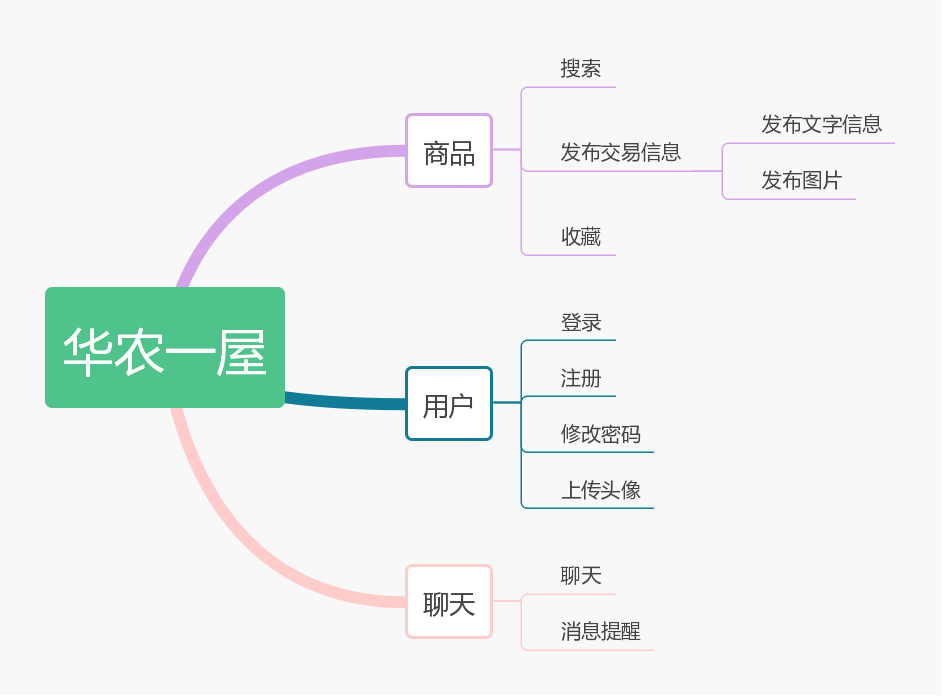
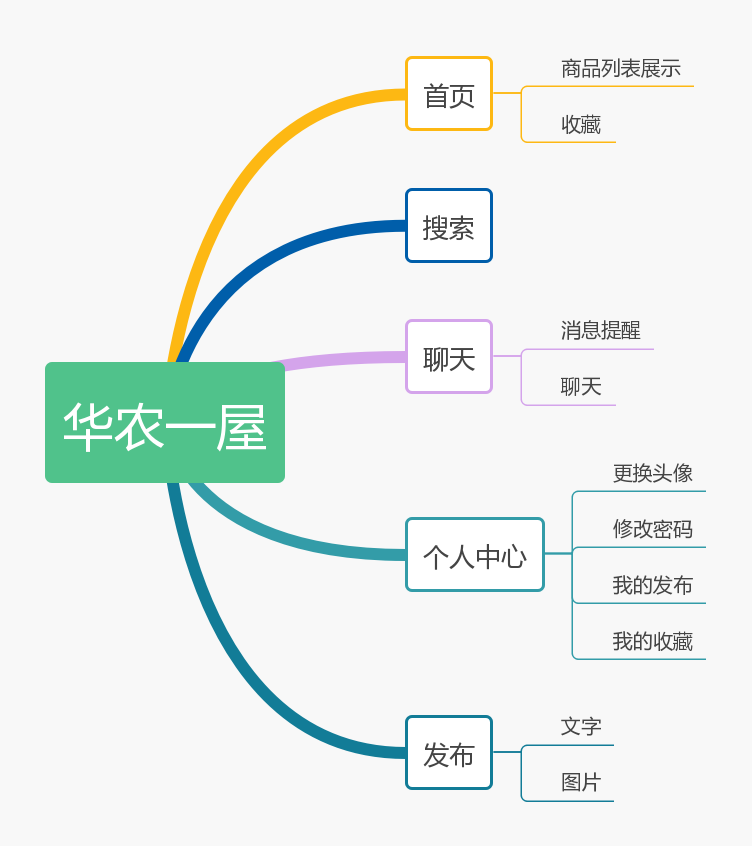
更新需求文档和数据库设计文档

diff --git a/需求分析文档.md b/需求分析文档.md
@@ -4,13 +4,14 @@
 
 大概阐述这个项目的结构和功能。
 
-这个系统是类似于闲鱼的二手交易平台，卖家可以在平台上挂出商品消息，买家从平台上找到自己想想要的物件，并与卖家进行交易。这个项目不会做的特别精细，只实现前台功能模块，完成一个二手交易应用最重要的功能部分即可。
+这个系统是一个移动端二手商品信息发布平台，卖家可以在平台上挂出商品信息，买家可以从平台上找到自己想想要的物件，并与卖家进行交流。考虑到工程量的问题，这个项目只实现前台功能模块，不实现后台管理系统。
+
 
 ## 背景
 
 软件系统名称：华农一屋
 
-系统类型：二手交易应用
+系统类型：移动端二手商品信息发布平台
 
 任务提出者：凡沸
 
@@ -38,7 +39,7 @@
 
 ![1](需求分析文档/1.png)
 
-系统的功能可以分为两大模块，一个是商品模块，一个是用户模块。商品模块主要负责与商品相关的功能，例如收藏某条商品信息、发布商品信息、与卖家聊天和搜索商品信息。用户模块负责与用户相关的功能，例如登录、注册、修改密码、上传头像、查看自己已经发布的交易信息和查看自己收藏的交易信息。
+系统的功能可以分为五个模块。在首页里，用户可以浏览商品的信息，并且可以收藏自己想要的商品信息。在搜索模块，用户可以输入关键字来查找自己想要的商品。在聊天模块，买家可以和卖家进行交流。在个人中心，用户可以修改头像，修改密码，查看已发布或者收藏的商品信息。在发布模块，用户可以发布文字和图片来描述商品信息。
 
 ## 系统整体流程
 
@@ -54,7 +55,7 @@
 
 ### 注册
 
-用户需要在注册界面提交账号、密码和邮箱。系统对用户提交的信息进行判定，如果账号或者邮箱已被注册，那么系统会对用户进行相应的提示。如果用户提交的信息无误，系统会向注册的邮箱发送验证邮件，如果验证成功，则注册成功。
+用户需要在注册界面提交账号、密码、邮箱和能证明自己学生身份的图片（校园卡或者学生证照片）。系统对用户提交的信息进行判定，如果用户提交的信息不符合要求，那么系统会对用户进行相应的提示。如果用户提交的信息无误，系统会向注册的邮箱发送注册成功的消息。
 
 ### 修改密码
 
@@ -74,7 +75,7 @@
 
 ### 收藏
 
-当用户点击收藏按钮后，该条商品信息将放入用户的收藏队列。
+当用户点击收藏的按钮后，系统会将收藏信息插入到数据库中。当用户点击取消收藏的按钮后，系统会将收藏信息从数据库中删除。
 
 ### 聊天
 

diff --git a/数据库设计文档.md b/数据库设计文档.md
@@ -57,3 +57,11 @@
 |username        |varchar(128)  |         |no       |        |用户名，->users(username)        |   
 |c_time          |datetime(6)   |         |         |        |收藏时间                         |   
 
+6.表名：token
+
+|字段名           |数据类型      |默认值    |允许非空 |自动递增 |说明                             |
+|----------------|--------------|---------|--------|---------|--------------------------------|
+|key             |varchar(40)   |         |no      |         |用户权限令牌                     |
+|created         |datetime(6)   |         |        |         |token创建的时间                  |
+|user_id         |int(11)       |         |        |         |token对应用户的id，->users(id)   |
+
